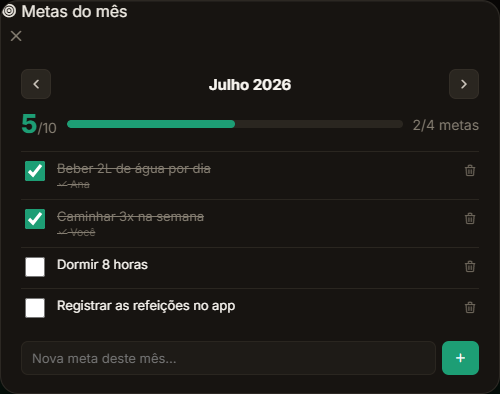
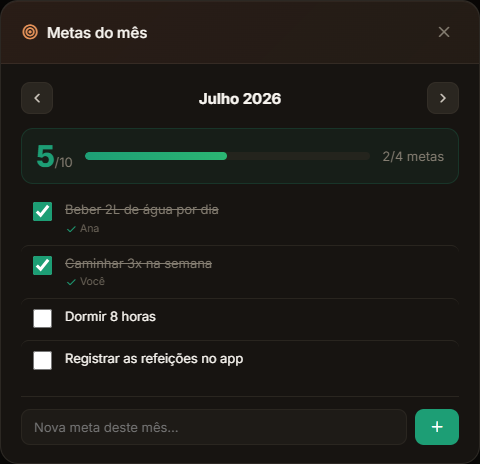
polish(metas): corrige header do modal + deixa mais bonito
Bug: usei .pac-modal-head (a classe é .pac-modal-header) -> o X caía embaixo do
título à esquerda. Corrigido -> X no canto superior direito, com o header em
gradiente. Polimento: pontuação num painel verde com barra em gradiente, itens com
hover, lixeira só no hover, e a assinatura "✓ quem" deixou de ficar riscada
(strike só na descrição via .mdesc).

diff --git a/clinico.html b/clinico.html
@@ -2232,25 +2232,33 @@
     .pr-h2-bloco.metas { background: rgba(29,158,117,0.10); border-color: rgba(29,158,117,0.35); color: #1D9E75; }
     .pr-h2-bloco.metas:hover { border-color: rgba(29,158,117,0.6); background: rgba(29,158,117,0.16); }
     /* Modal de metas mensais */
-    .metas-mes-nav { display: flex; align-items: center; justify-content: space-between; gap: 10px; margin-bottom: 12px; }
-    .metas-mes-nav .mnav-btn { background: var(--bg3); border: 1px solid var(--bd1); color: var(--tx2); width: 30px; height: 30px; border-radius: 7px; cursor: pointer; font-size: 15px; display: flex; align-items: center; justify-content: center; }
-    .metas-mes-nav .mnav-btn:disabled { opacity: .35; cursor: default; }
+    .metas-mes-nav { display: flex; align-items: center; justify-content: space-between; gap: 10px; margin-bottom: 14px; }
+    .metas-mes-nav .mnav-btn { background: var(--bg3); border: 1px solid var(--bd1); color: var(--tx2); width: 32px; height: 32px; border-radius: 9px; cursor: pointer; font-size: 15px; display: flex; align-items: center; justify-content: center; transition: background .15s, border-color .15s, color .15s; }
+    .metas-mes-nav .mnav-btn:hover { background: rgba(29,158,117,0.14); border-color: rgba(29,158,117,0.4); color: #1D9E75; }
     .metas-mes-nav .mnav-lbl { font-weight: 700; color: var(--tx1); font-size: 15px; text-transform: capitalize; }
-    .metas-score { display: flex; align-items: center; gap: 10px; margin-bottom: 14px; }
-    .metas-score .sc-num { font-size: 26px; font-weight: 800; color: #1D9E75; line-height: 1; }
-    .metas-score .sc-den { font-size: 14px; color: var(--tx3b); }
-    .metas-score .sc-bar { flex: 1; height: 8px; border-radius: 5px; background: var(--bg3); overflow: hidden; }
-    .metas-score .sc-fill { height: 100%; background: #1D9E75; border-radius: 5px; transition: width .3s; }
-    .meta-item { display: flex; align-items: flex-start; gap: 9px; padding: 8px 0; border-top: 1px solid var(--bg3); }
-    .meta-item .mck { width: 20px; height: 20px; flex-shrink: 0; cursor: pointer; accent-color: #1D9E75; margin-top: 1px; }
-    .meta-item .mtxt { flex: 1; font-size: 13px; color: var(--tx1); }
-    .meta-item.feita .mtxt { color: var(--tx3b); text-decoration: line-through; }
-    .meta-item .mmeta { font-size: 10.5px; color: var(--tx4); margin-top: 2px; }
-    .meta-item .mdel { background: none; border: 0; color: var(--tx4); cursor: pointer; font-size: 14px; padding: 2px; }
+    .metas-score { display: flex; align-items: center; gap: 12px; margin-bottom: 6px; padding: 12px 14px; background: rgba(29,158,117,0.07); border: 1px solid rgba(29,158,117,0.18); border-radius: 12px; }
+    .metas-score .sc-num { font-size: 30px; font-weight: 800; color: #1D9E75; line-height: 1; letter-spacing: -0.5px; }
+    .metas-score .sc-den { font-size: 13px; color: var(--tx3b); white-space: nowrap; }
+    .metas-score .sc-bar { flex: 1; height: 8px; border-radius: 6px; background: rgba(var(--bg3-rgb),0.7); overflow: hidden; }
+    .metas-score .sc-fill { height: 100%; background: linear-gradient(90deg, #1D9E75, #2BB673); border-radius: 6px; transition: width .35s ease; }
+    .metas-lista { margin-top: 8px; }
+    .meta-item { display: flex; align-items: flex-start; gap: 10px; padding: 9px 8px; border-radius: 8px; transition: background .12s; }
+    .meta-item + .meta-item { border-top: 1px solid var(--bg3); }
+    .meta-item:hover { background: rgba(var(--bg3-rgb),0.35); }
+    .meta-item .mck { width: 19px; height: 19px; flex-shrink: 0; cursor: pointer; accent-color: #1D9E75; margin-top: 1px; }
+    .meta-item .mtxt { flex: 1; font-size: 13px; color: var(--tx1); line-height: 1.35; }
+    .meta-item .mdesc { color: var(--tx1); }
+    .meta-item.feita .mdesc { color: var(--tx3b); text-decoration: line-through; }
+    .meta-item .mmeta { font-size: 10.5px; color: var(--tx4); margin-top: 3px; display: flex; align-items: center; gap: 3px; }
+    .meta-item .mmeta i { font-size: 12px; color: #1D9E75; }
+    .meta-item .mdel { background: none; border: 0; color: var(--tx4); cursor: pointer; font-size: 14px; padding: 3px; border-radius: 6px; opacity: 0; transition: opacity .12s, color .12s; }
+    .meta-item:hover .mdel { opacity: 1; }
     .meta-item .mdel:hover { color: #f85149; }
-    .metas-add { display: flex; gap: 6px; margin-top: 12px; }
-    .metas-add input { flex: 1; padding: 8px 10px; background: var(--bg2); border: 1px solid var(--bg3); color: var(--tx1); border-radius: 7px; font-size: 13px; }
-    .metas-add button { background: #1D9E75; border: 0; color: #fff; border-radius: 7px; padding: 0 12px; cursor: pointer; font-weight: 600; }
+    .metas-add { display: flex; gap: 8px; margin-top: 14px; padding-top: 12px; border-top: 1px solid var(--bg3); }
+    .metas-add input { flex: 1; padding: 9px 12px; background: var(--bg2); border: 1px solid var(--bg3); color: var(--tx1); border-radius: 9px; font-size: 13px; }
+    .metas-add input:focus { outline: none; border-color: rgba(29,158,117,0.5); }
+    .metas-add button { background: #1D9E75; border: 0; color: #fff; border-radius: 9px; padding: 0 14px; cursor: pointer; font-weight: 600; font-size: 16px; display: flex; align-items: center; }
+    .metas-add button:hover { background: #17835f; }
     .pr-h2-editar {
       background: transparent; border: 1px solid var(--bd1);
       color: var(--tx3); width: 34px; height: 34px;
@@ -19071,8 +19079,8 @@ async function prAbrirMetasMes() {
   ov.id = 'pr-metas-modal';
   ov.className = 'ag-modal-overlay aberto';
   ov.onclick = function (e) { if (e.target.id === 'pr-metas-modal') ov.remove(); };
-  ov.innerHTML = '<div class="pac-modal" style="max-width:500px;">'
-    + '<div class="pac-modal-head"><div class="ttl"><i class="ti ti-target"></i> Metas do mês</div>'
+  ov.innerHTML = '<div class="pac-modal" style="max-width:480px;">'
+    + '<div class="pac-modal-header"><div class="ttl"><i class="ti ti-target"></i> Metas do mês</div>'
     + '<button class="pac-modal-close" onclick="document.getElementById(\'pr-metas-modal\').remove()"><i class="ti ti-x"></i></button></div>'
     + '<div class="pac-modal-body" id="pr-metas-body"><div class="pr-inj-load"><i class="ti ti-loader"></i> Carregando…</div></div></div>';
   document.body.appendChild(ov);
@@ -19101,12 +19109,13 @@ function prMetasRender() {
     <div class="sc-bar"><div class="sc-fill" style="width:${total ? (feitas / total * 100) : 0}%"></div></div>
     <span class="sc-den">${feitas}/${total} metas</span>
   </div>`;
-  const lista = doMes.length ? doMes.map(m => `
+  const itens = doMes.length ? doMes.map(m => `
     <div class="meta-item${m.concluida ? ' feita' : ''}">
       <input type="checkbox" class="mck" ${m.concluida ? 'checked' : ''} onchange="prMetasToggle('${m.id}', this.checked)">
-      <div class="mtxt">${esc(m.descricao)}${m.concluida && m.concluida_por ? `<div class="mmeta"><i class="ti ti-check"></i> ${esc(m.concluida_por)}</div>` : ''}</div>
+      <div class="mtxt"><span class="mdesc">${esc(m.descricao)}</span>${m.concluida && m.concluida_por ? `<div class="mmeta"><i class="ti ti-check"></i> ${esc(m.concluida_por)}</div>` : ''}</div>
       <button class="mdel" onclick="prMetasDel('${m.id}')" title="Excluir"><i class="ti ti-trash"></i></button>
-    </div>`).join('') : '<div class="pr-inj-obs" style="padding:10px 0;font-style:normal">Nenhuma meta neste mês. Adicione a primeira embaixo.</div>';
+    </div>`).join('') : '<div class="pr-inj-obs" style="padding:14px 4px;font-style:normal">Nenhuma meta neste mês. Adicione a primeira embaixo.</div>';
+  const lista = `<div class="metas-lista">${itens}</div>`;
   const add = `<div class="metas-add">
     <input id="pr-meta-nova" maxlength="500" placeholder="Nova meta deste mês…" onkeydown="if(event.key==='Enter')prMetasAdd()">
     <button onclick="prMetasAdd()"><i class="ti ti-plus"></i></button>